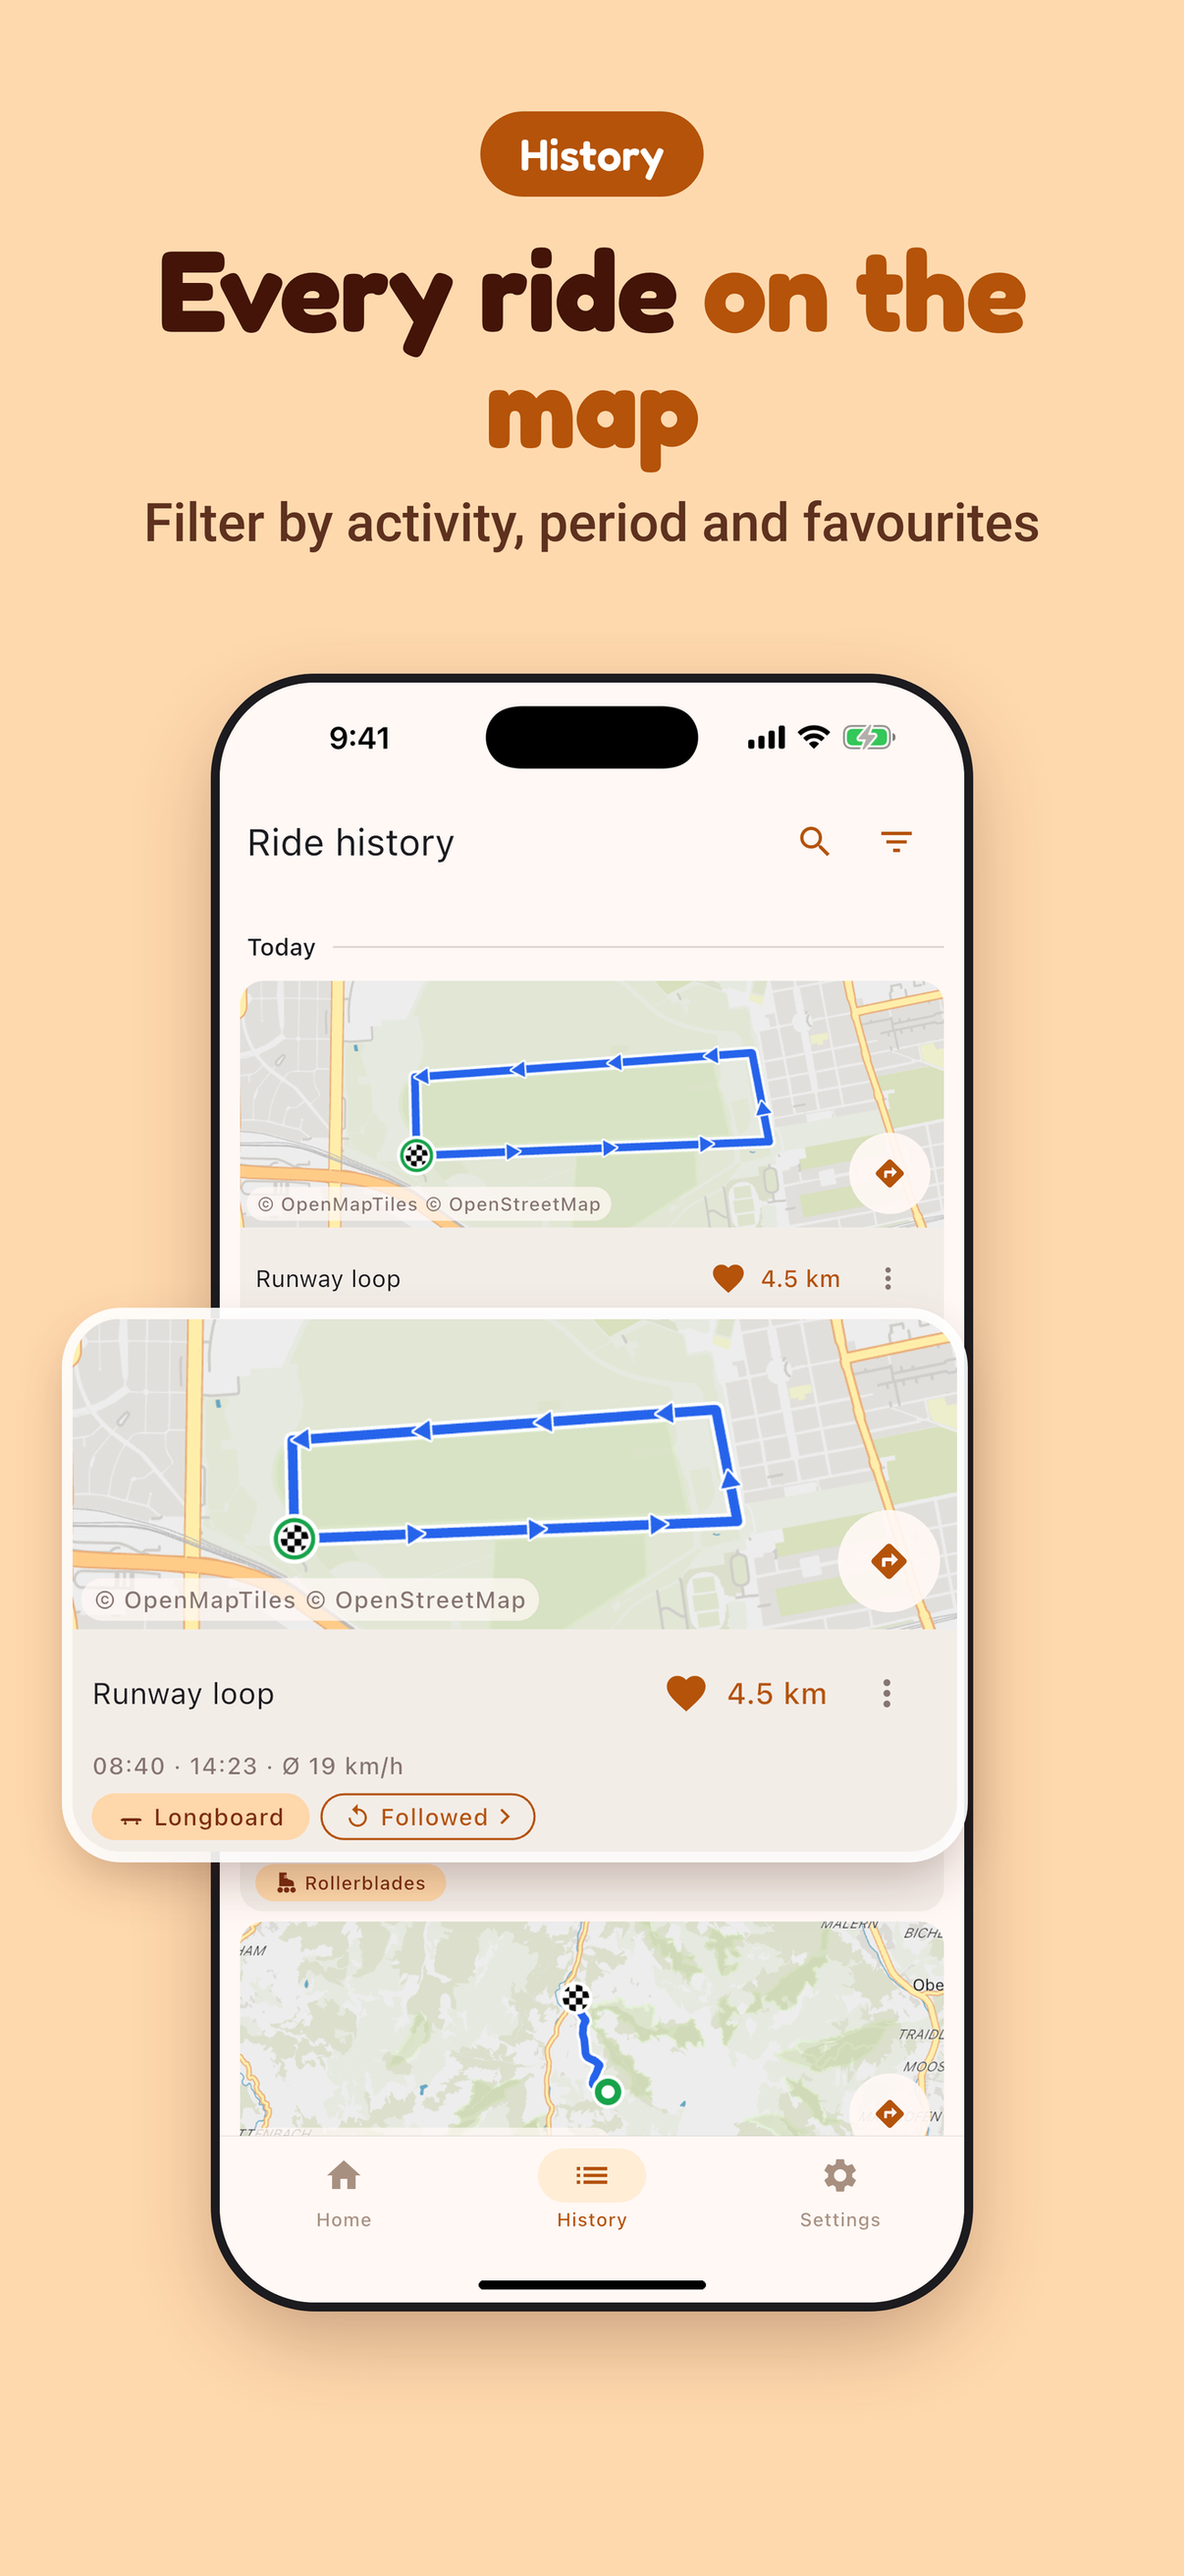
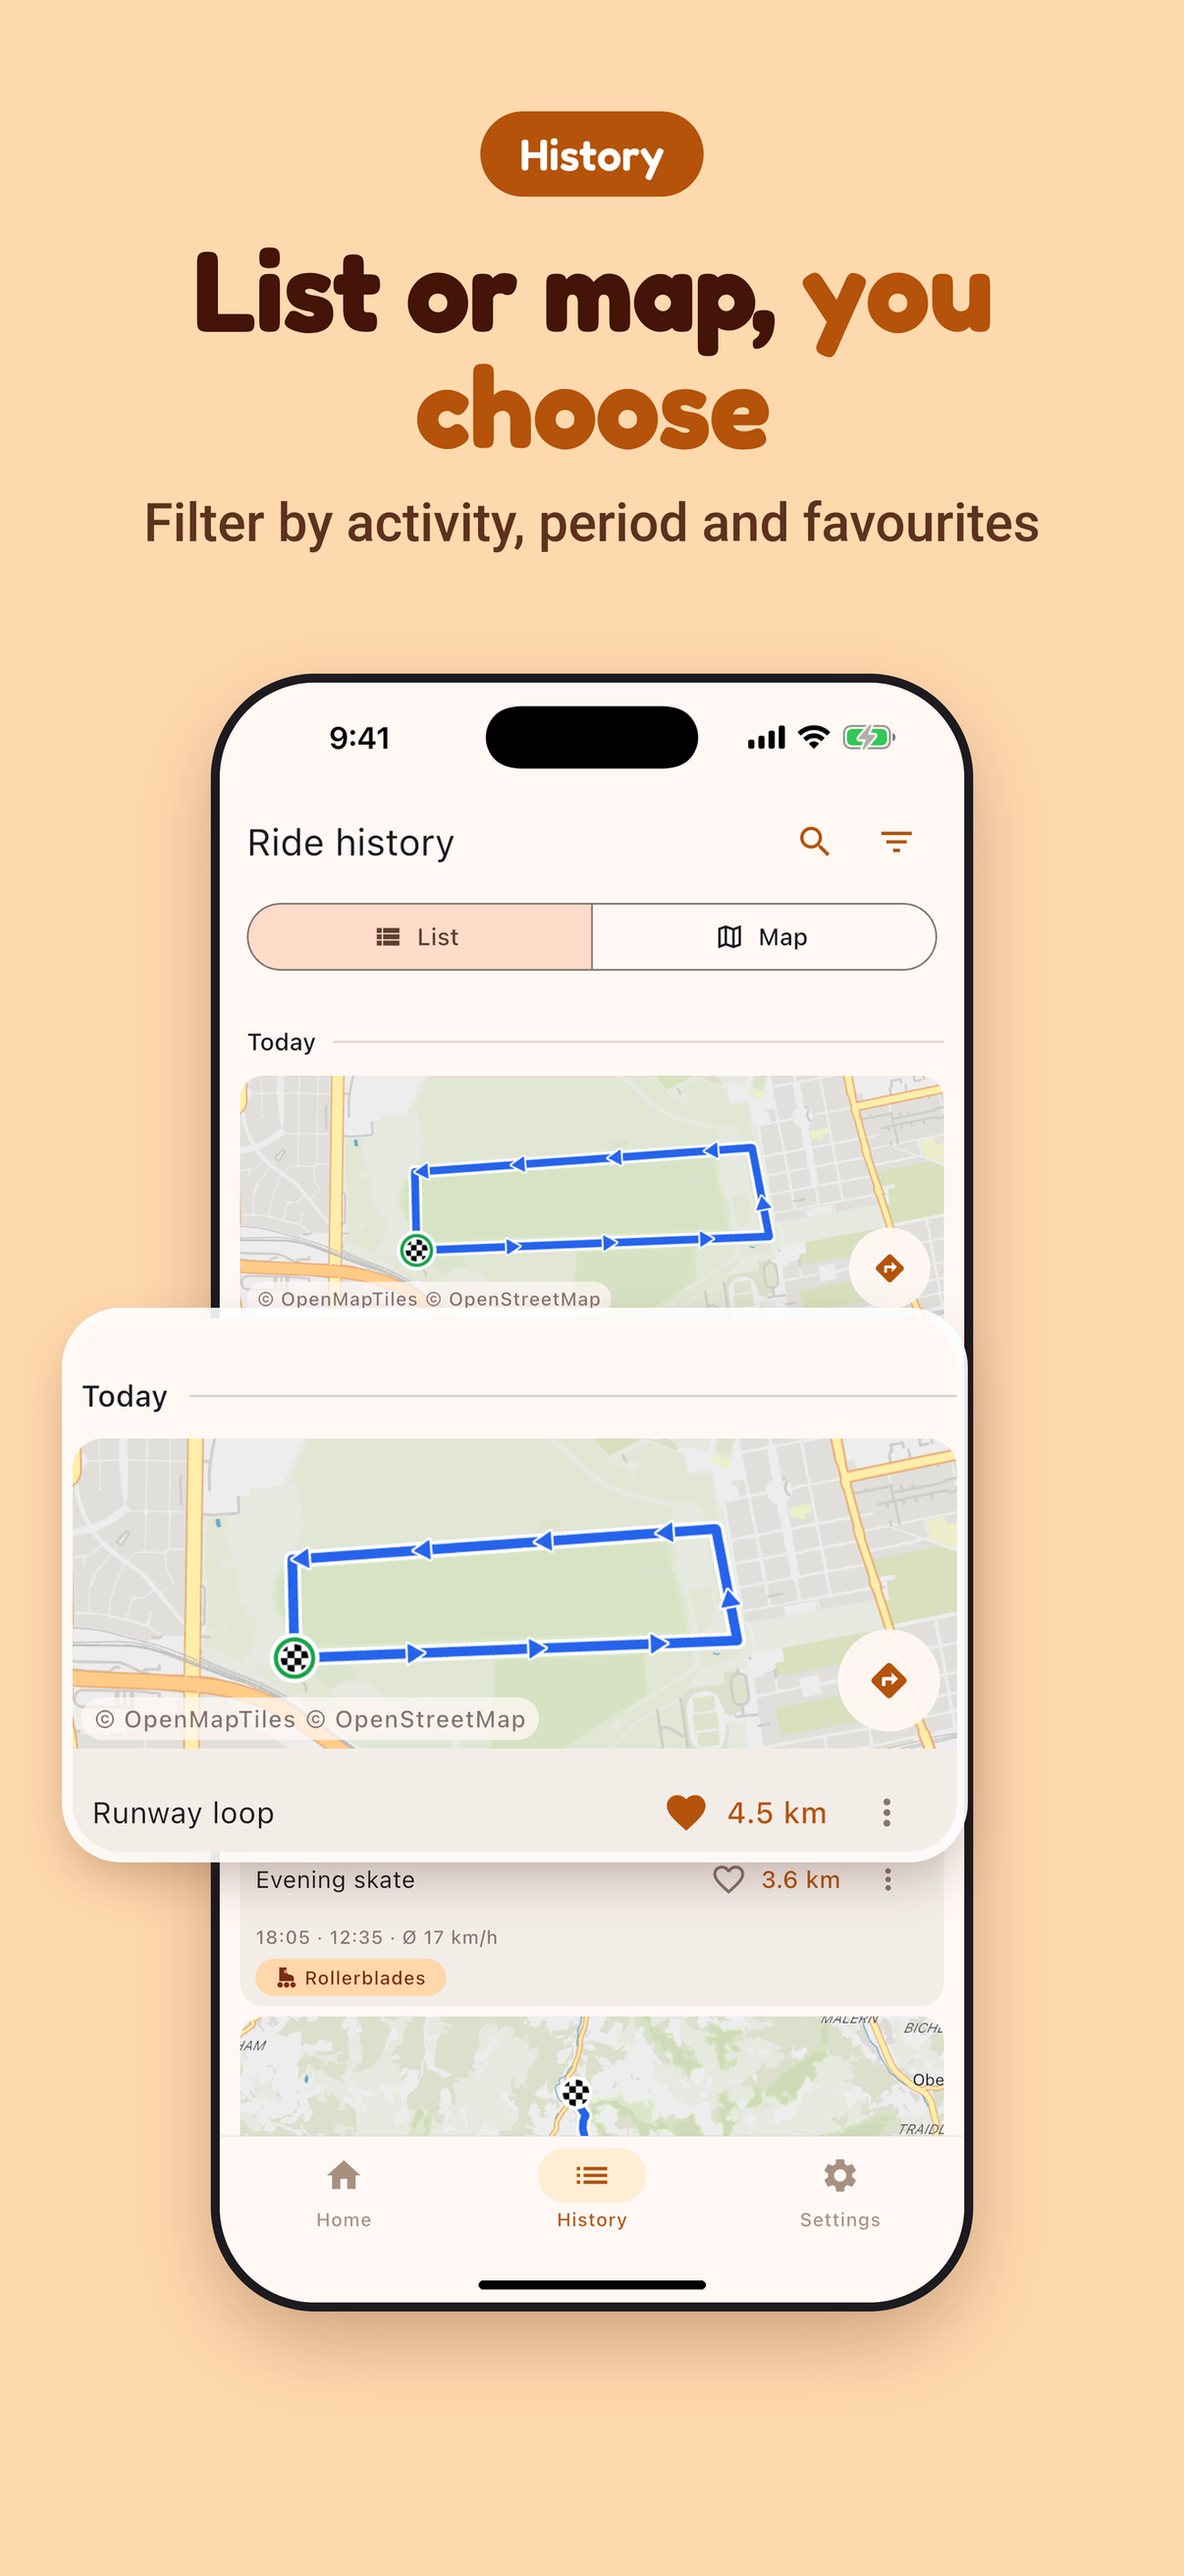
docs(store): iOS screenshots with the History map and the list/map switch (10 motives)
Claude-Session: https://claude.ai/code/session_018rGj2tM4nr4j1R9T9oikZD

Changed region(s): [[0.0614, 0.3398, 0.8284, 0.8341], [0.1227, 0.0927, 0.859, 0.1854]]

diff --git a/docs/app-store.md b/docs/app-store.md
@@ -111,7 +111,7 @@ expected **4+**. Fill the questionnaire in App Store Connect with "None" everywh
   field, so the keyword list replaces the Play keyword table.
 - Category: Sports (secondary: Health & Fitness).
 - Screenshots: 6.9" iPhone (1320 × 2868) is required, the rest are scaled from it. The App Store Connect upload field of
-  the version page may accept only the 6.1"/6.3" size (1206 × 2622): `store/ios/screenshots_6_3/` holds the same 16 images
+  the version page may accept only the 6.1"/6.3" size (1206 × 2622): `store/ios/screenshots_6_3/` holds the same 20 images
   resized for that field (checked 2026-11-06: 1320 × 2868 was rejected there as "invalid dimensions"). German and
   English sets. Never use real routes (see the repo rule on location data).
   There is no Mac, so the shots come from the iOS Simulator on the GitHub macOS runner:
@@ -120,7 +120,7 @@ expected **4+**. Fill the questionnaire in App Store Connect with "None" everywh
   `1320 × 2868` checked). The Play shots (1080 × 1920, Android UI) cannot be reused, only their motive
   list in `store/play/screenshots.tsv` and the framing idea.
   **Motives:** the home screen comes from a plain launch with seeded prefs and database. The Play set
-  (history, detail, comparison sheet, follow route, countdown, live ride, activity picker, plus the
+  (history, the History map with pin circle and route card, detail, comparison sheet, follow route, countdown, live ride, activity picker, plus the
   ride in dark) comes from `integration_test/store_screenshots_test.dart`, run by the script with
   `flutter test -d <udid>`: it navigates the real app with provider overrides (mock prefs, a copy of
   the demo database, the newest demo ride replayed as GPS, no Live Activity, silent countdown) and
@@ -128,7 +128,7 @@ expected **4+**. Fill the questionnaire in App Store Connect with "None" everywh
   view the test cannot capture) and writes an ack file into the app's Documents. Each shot is checked
   for size and for a known text per screen (Vision OCR). The Live Activity on the lock screen is not
   automated. Framing: `tool/render_ios_store_graphics.sh` and `store/ios/screenshot_frame.html`
-  (1320 × 2868, motives and captions in `store/ios/screenshots.tsv`, the same 8 as Play).
+  (1320 × 2868, motives and captions in `store/ios/screenshots.tsv`, 10 motives, the Play ones plus winter and the second history motive).
 - Support URL and marketing URL: https://getretrail.app. Support contact: retrail.app@proton.me.
 - Price: free. Paid features later need the Paid Apps agreement and the trader status (#67).
 

diff --git a/docs/play-store.md b/docs/play-store.md
@@ -215,7 +215,7 @@ Made with `tool/render_store_graphics.sh` (sources and output in `store/play/`):
 |---|---|---|
 | App icon | `store/play/icon_512.png` | 512 × 512 PNG, 32-bit, ≤ 1 MB — from `assets/branding/app_icon.png` |
 | Feature graphic | `store/play/feature_graphic_en.png`, `…_de.png` | 1024 × 500 PNG, no alpha — source `store/play/feature_graphic.html` (tagline + chips per language, two phones: light history + dark recording) |
-| Phone screenshots | `store/play/screenshots/<lang>/01_track.png` … `08_activities.png` (recording, best time of a followed route, follow, history, light + dark, detail, countdown, activities) | 8 per language, 1080 × 1920, tag + caption + subline, background and enlarged excerpt per shot in `store/play/screenshots.tsv`, frame `store/play/screenshot_frame.html` (Fredoka headings, cream / peach / dark backgrounds) |
+| Phone screenshots | `store/play/screenshots/<lang>/01_track.png` … `08_countdown.png` (recording, activities, best time of a followed route, map, history, light + dark, detail, countdown; the map shot has the pin circle and the found route with its card, `tool/` flow in the session notes: all activities ticked, pin on the field, radius 2 km, route tapped) | 8 per language, 1080 × 1920, tag + caption + subline, background and enlarged excerpt per shot in `store/play/screenshots.tsv`, frame `store/play/screenshot_frame.html` (Fredoka headings, cream / peach / dark backgrounds) |
 
 **How the screenshots are made** (no real location data anywhere):
 
